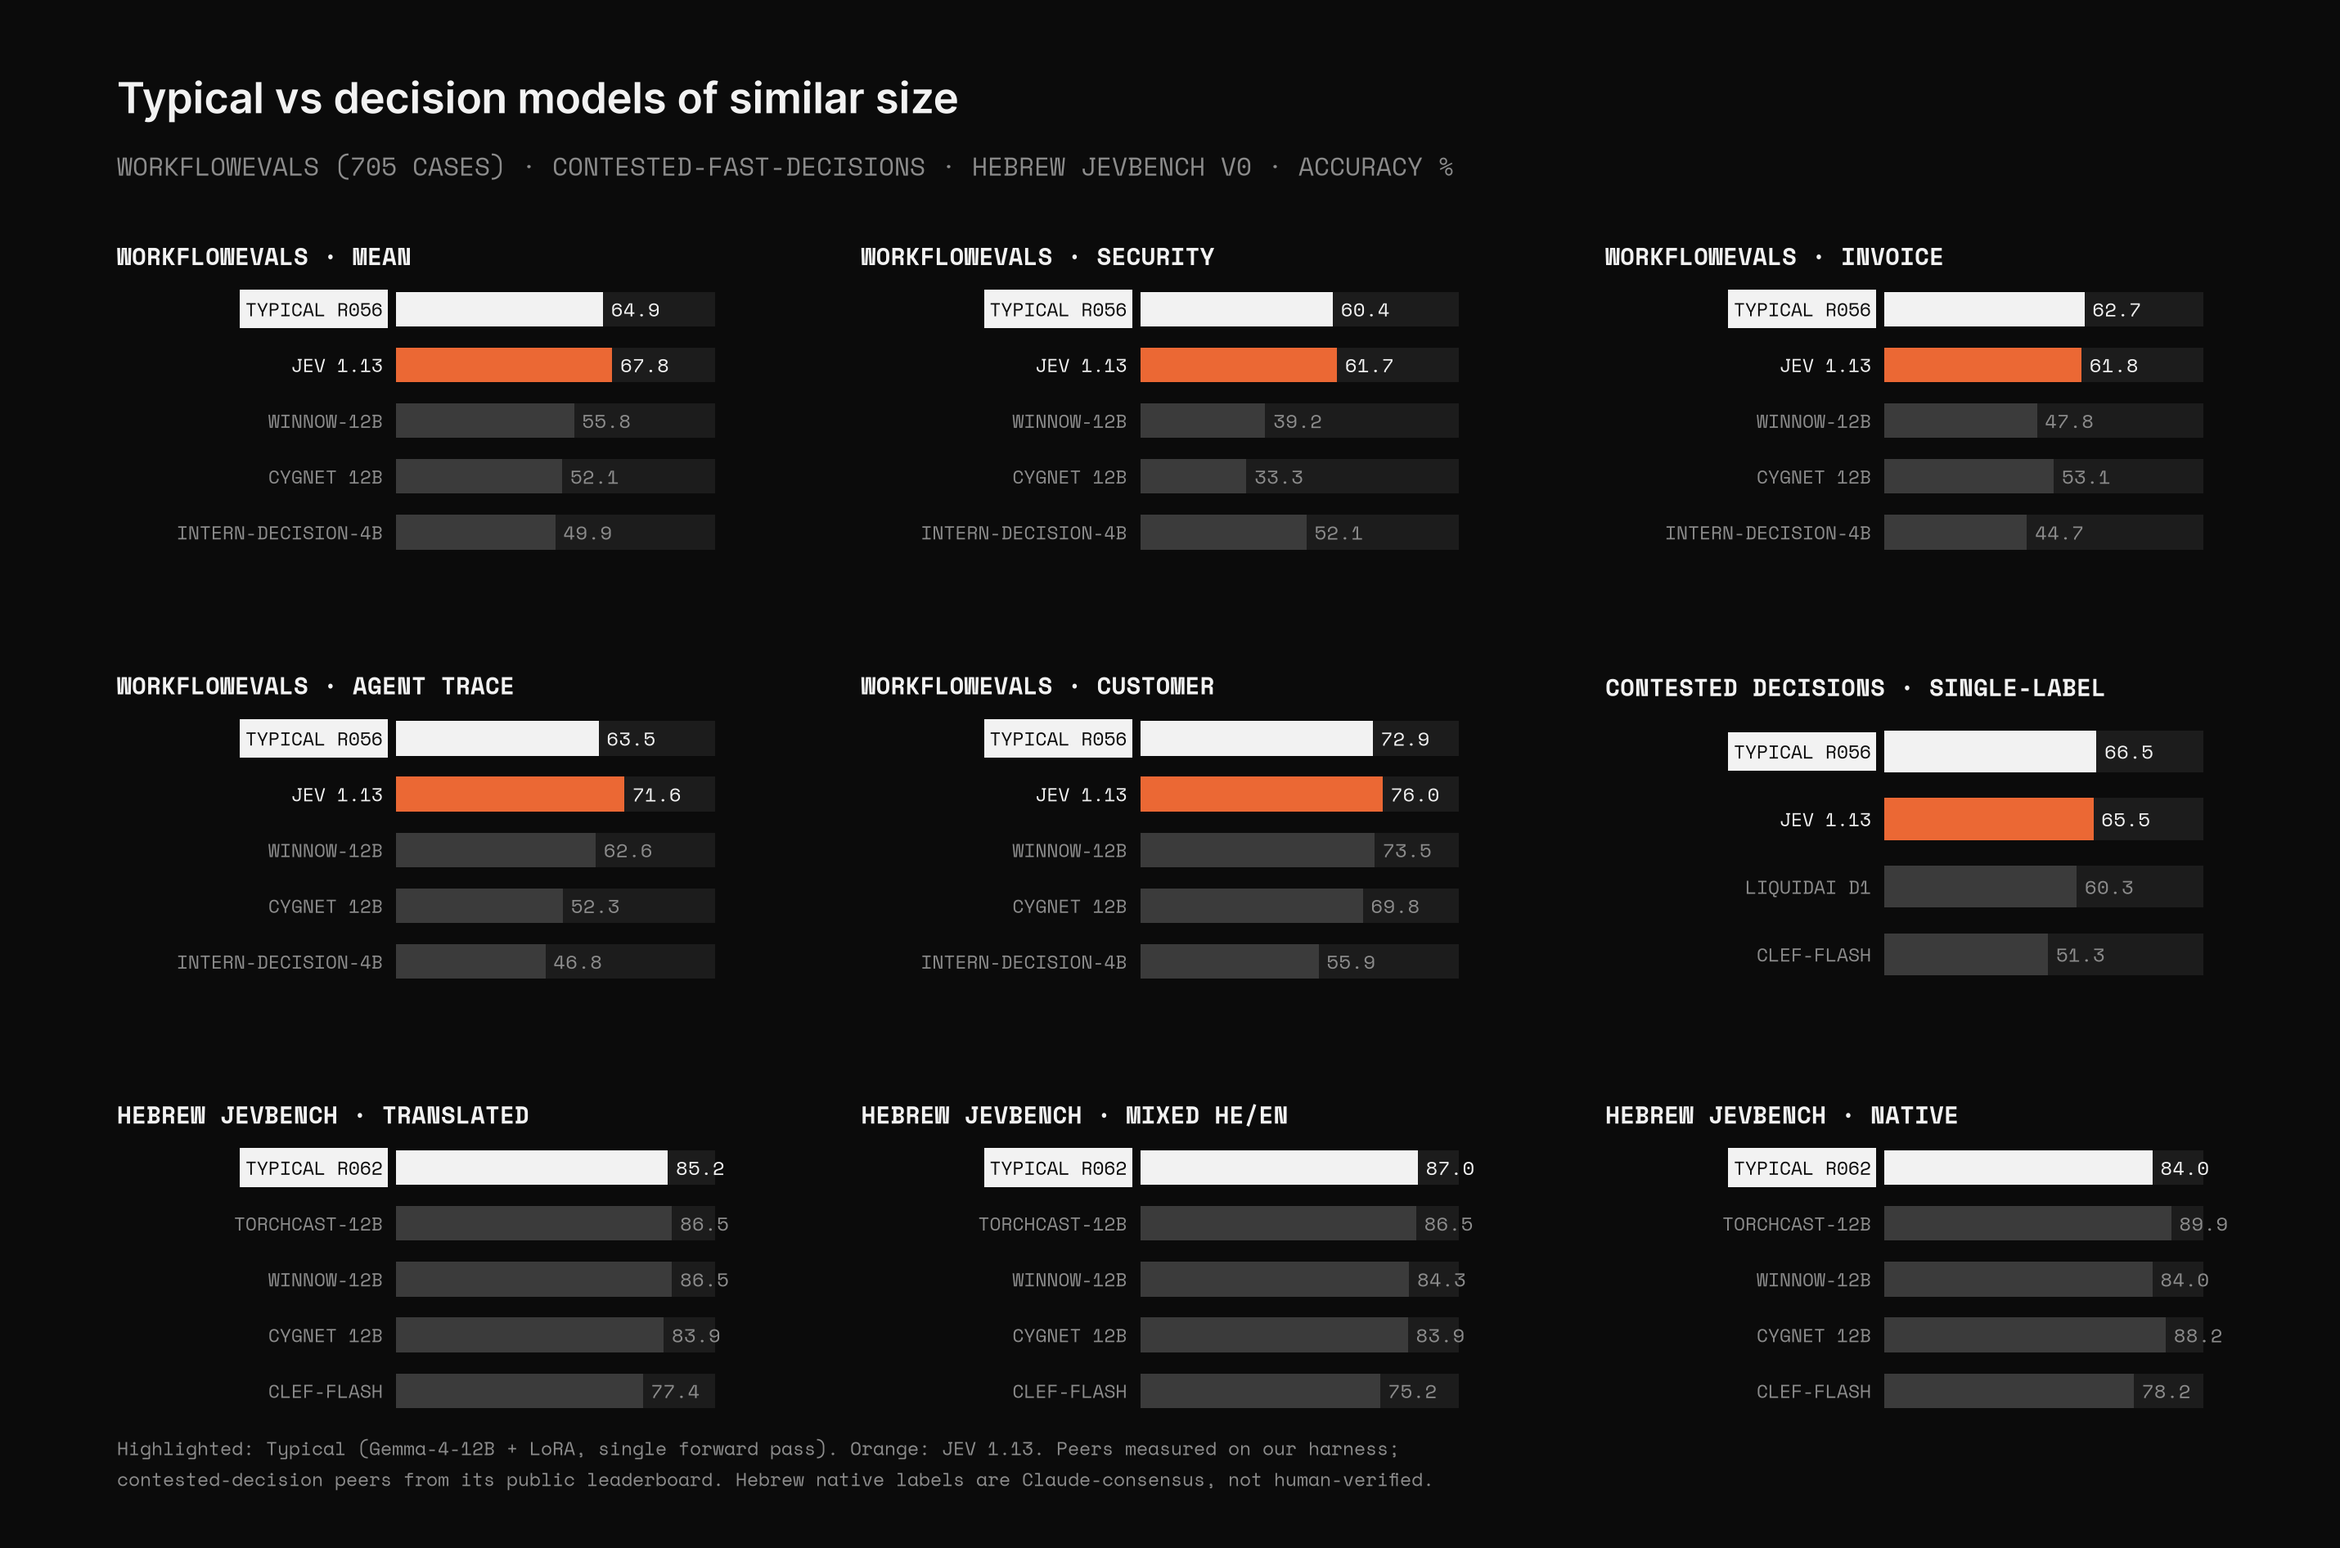
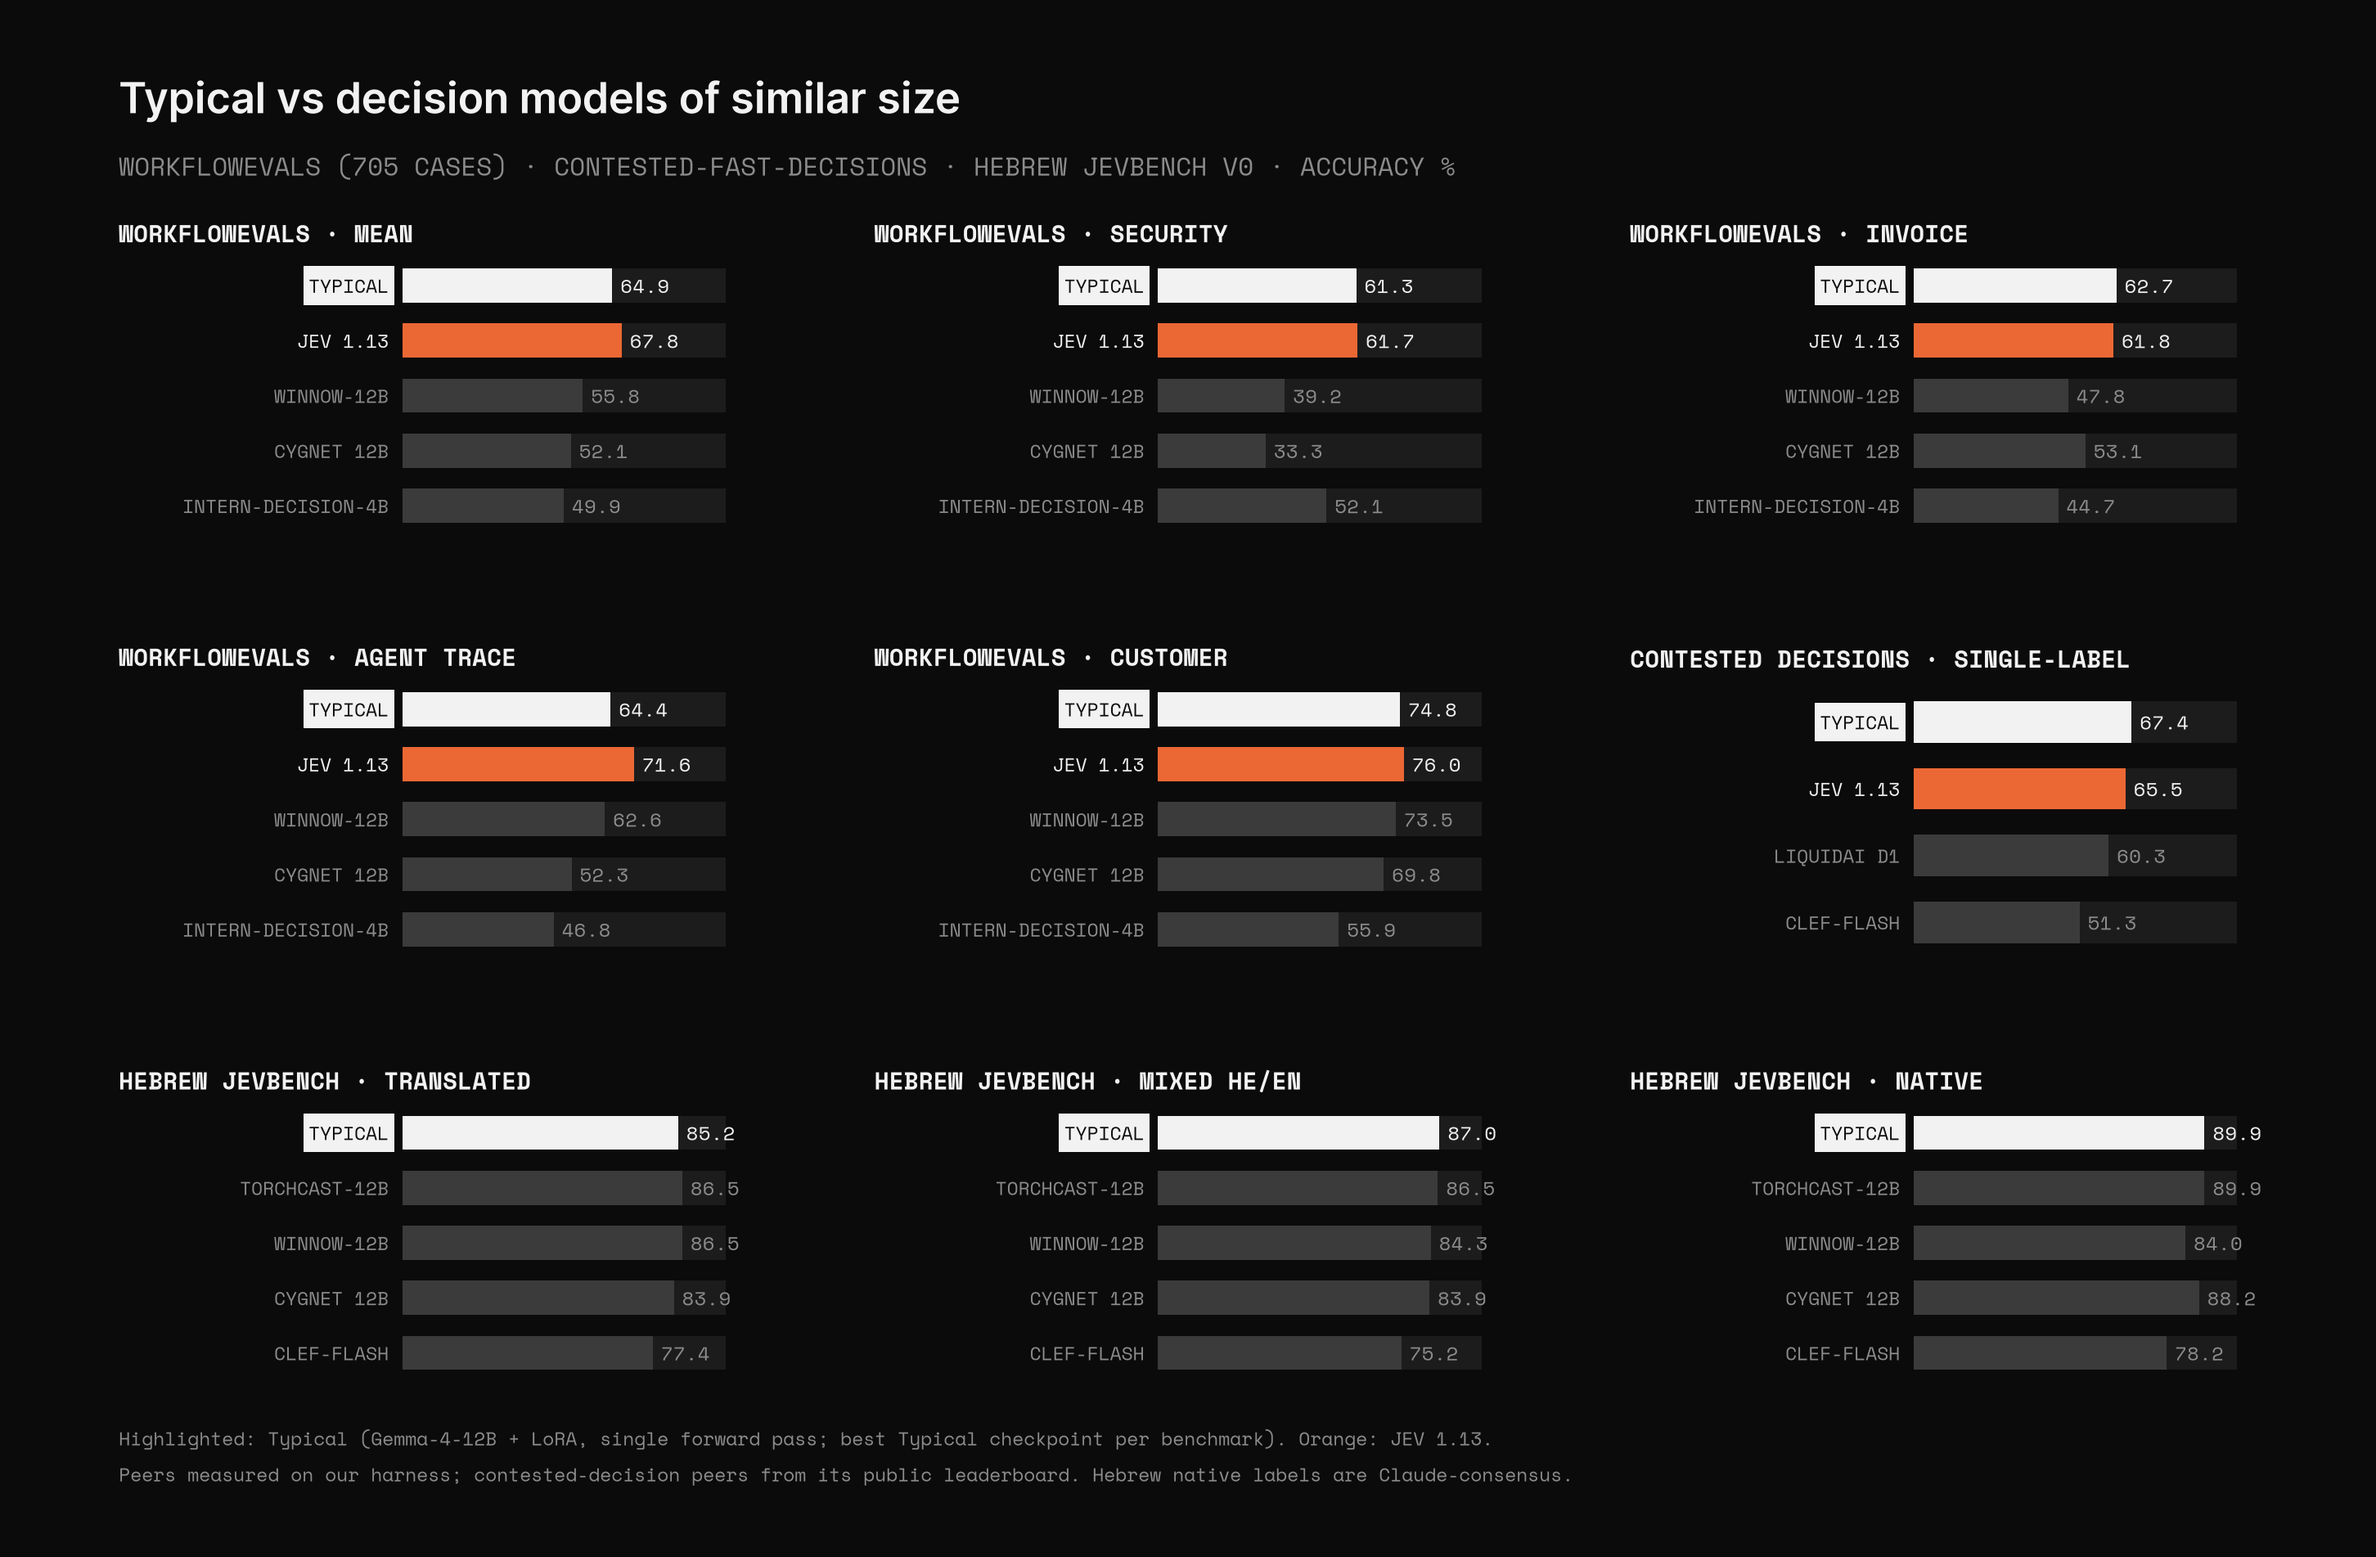
Showcase: one Typical bar (best checkpoint per benchmark); no-Jev and lead-only variants

diff --git a/scripts/showcase_plots.py b/scripts/showcase_plots.py
@@ -18,36 +18,35 @@ THEMES = {
                   ours="#2a78d6", ours_ink="#ffffff", jev="#eb6834", grid="#ececea", mono="Space Mono", sans="Inter"),
 }
 
-# (label, value in %, kind) — kind: ours | jev | peer.  Typical rows name the exact model.
+# (label, value in %, kind) — kind: ours | jev | peer. "TYPICAL" = best Typical checkpoint per benchmark:
+# WF mean/invoice R056, security/trace R060, customer + native R056 at 0.5 scale, contested R056 at 0.75, mixed R062.
 BOARD = [
-    ("WORKFLOWEVALS · MEAN", [("TYPICAL R056", 64.9, "ours"), ("JEV 1.13", 67.8, "jev"), ("WINNOW-12B", 55.8, "peer"),
+    ("WORKFLOWEVALS · MEAN", [("TYPICAL", 64.9, "ours"), ("JEV 1.13", 67.8, "jev"), ("WINNOW-12B", 55.8, "peer"),
                               ("CYGNET 12B", 52.1, "peer"), ("INTERN-DECISION-4B", 49.9, "peer")]),
-    ("WORKFLOWEVALS · SECURITY", [("TYPICAL R056", 60.4, "ours"), ("JEV 1.13", 61.7, "jev"), ("WINNOW-12B", 39.2, "peer"),
+    ("WORKFLOWEVALS · SECURITY", [("TYPICAL", 61.3, "ours"), ("JEV 1.13", 61.7, "jev"), ("WINNOW-12B", 39.2, "peer"),
                                   ("CYGNET 12B", 33.3, "peer"), ("INTERN-DECISION-4B", 52.1, "peer")]),
-    ("WORKFLOWEVALS · INVOICE", [("TYPICAL R056", 62.7, "ours"), ("JEV 1.13", 61.8, "jev"), ("WINNOW-12B", 47.8, "peer"),
+    ("WORKFLOWEVALS · INVOICE", [("TYPICAL", 62.7, "ours"), ("JEV 1.13", 61.8, "jev"), ("WINNOW-12B", 47.8, "peer"),
                                  ("CYGNET 12B", 53.1, "peer"), ("INTERN-DECISION-4B", 44.7, "peer")]),
-    ("WORKFLOWEVALS · AGENT TRACE", [("TYPICAL R056", 63.5, "ours"), ("JEV 1.13", 71.6, "jev"), ("WINNOW-12B", 62.6, "peer"),
+    ("WORKFLOWEVALS · AGENT TRACE", [("TYPICAL", 64.4, "ours"), ("JEV 1.13", 71.6, "jev"), ("WINNOW-12B", 62.6, "peer"),
                                      ("CYGNET 12B", 52.3, "peer"), ("INTERN-DECISION-4B", 46.8, "peer")]),
-    ("WORKFLOWEVALS · CUSTOMER", [("TYPICAL R056", 72.9, "ours"), ("JEV 1.13", 76.0, "jev"), ("WINNOW-12B", 73.5, "peer"),
+    ("WORKFLOWEVALS · CUSTOMER", [("TYPICAL", 74.8, "ours"), ("JEV 1.13", 76.0, "jev"), ("WINNOW-12B", 73.5, "peer"),
                                   ("CYGNET 12B", 69.8, "peer"), ("INTERN-DECISION-4B", 55.9, "peer")]),
-    ("CONTESTED DECISIONS · SINGLE-LABEL", [("TYPICAL R056", 66.5, "ours"), ("JEV 1.13", 65.5, "jev"),
+    ("CONTESTED DECISIONS · SINGLE-LABEL", [("TYPICAL", 67.4, "ours"), ("JEV 1.13", 65.5, "jev"),
                                             ("LIQUIDAI D1", 60.3, "peer"), ("CLEF-FLASH", 51.3, "peer")]),
-    ("HEBREW JEVBENCH · TRANSLATED", [("TYPICAL R062", 85.2, "ours"), ("TORCHCAST-12B", 86.5, "peer"),
+    ("HEBREW JEVBENCH · TRANSLATED", [("TYPICAL", 85.2, "ours"), ("TORCHCAST-12B", 86.5, "peer"),
                                       ("WINNOW-12B", 86.5, "peer"), ("CYGNET 12B", 83.9, "peer"), ("CLEF-FLASH", 77.4, "peer")]),
-    ("HEBREW JEVBENCH · MIXED HE/EN", [("TYPICAL R062", 87.0, "ours"), ("TORCHCAST-12B", 86.5, "peer"),
+    ("HEBREW JEVBENCH · MIXED HE/EN", [("TYPICAL", 87.0, "ours"), ("TORCHCAST-12B", 86.5, "peer"),
                                        ("WINNOW-12B", 84.3, "peer"), ("CYGNET 12B", 83.9, "peer"), ("CLEF-FLASH", 75.2, "peer")]),
-    ("HEBREW JEVBENCH · NATIVE", [("TYPICAL R062", 84.0, "ours"), ("TORCHCAST-12B", 89.9, "peer"),
+    ("HEBREW JEVBENCH · NATIVE", [("TYPICAL", 89.9, "ours"), ("TORCHCAST-12B", 89.9, "peer"),
                                   ("WINNOW-12B", 84.0, "peer"), ("CYGNET 12B", 88.2, "peer"), ("CLEF-FLASH", 78.2, "peer")]),
 ]
 
-PROGRESS = [("CYGNET 12B (FROZEN, ITS READOUT)", 52.1, "peer"), ("TYPICAL R044 (OLD RECIPE)", 52.8, "peer"),
-            ("GEMMA-12B + THINKING (TEACHER)", 61.2, "peer"), ("TYPICAL R056 (DISTILLED)", 64.9, "ours"),
-            ("TYPICAL R060 (+GPT TRACE LABELS)", 64.8, "ours"), ("JEV 1.13", 67.8, "jev")]
+PROGRESS = [("CYGNET 12B (FROZEN)", 52.1, "peer"), ("PREVIOUS RECIPE (R044)", 52.8, "peer"),
+            ("GEMMA-12B + THINKING (TEACHER)", 61.2, "peer"), ("TYPICAL", 64.9, "ours"), ("JEV 1.13", 67.8, "jev")]
 
 BLEND = [("BASE (SCALE 0)", 55.0, 202), ("SCALE 0.5", 60.1, 202), ("SCALE 0.75", 60.8, 199), ("R056 (SCALE 1)", 64.9, 196)]
 
-IMAGES = [("FROZEN BASE", 85, "peer"), ("TYPICAL R056", 114, "ours"), ("TYPICAL R060", 120, "ours"),
-          ("TYPICAL R062", 110, "ours")]
+IMAGES = [("FROZEN GEMMA-4-12B", 85, "peer"), ("TYPICAL", 120, "ours")]
 
 
 def page(t, w, h):
@@ -95,31 +94,44 @@ def bar_panel(ax, t, title, rows, vmax, fmt="{:.1f}", label_w=.42):
                 color=t["ink"] if kind != "peer" else t["ink2"])
 
 
-def board(t, name):
-    fig = page(t, 13, 8.6)
+def keep(rows, jev):
+    return [r for r in rows if jev or r[2] != "jev"]
+
+
+def leads(rows):
+    ours = max(v for _, v, k in rows if k == "ours")
+    return all(ours > v for _, v, k in rows if k == "peer")
+
+
+def board(t, name, jev=True, lead_only=False):
+    panels = [(title, keep(rows, jev)) for title, rows in BOARD if not lead_only or leads(rows)]
+    cols = 3
+    nrows = -(-len(panels) // cols)
+    fig = page(t, 4.4 * cols, 1.3 + 2.45 * nrows)
     header(fig, t, "Typical vs decision models of similar size",
            "WORKFLOWEVALS (705 CASES) · CONTESTED-FAST-DECISIONS · HEBREW JEVBENCH V0 · ACCURACY %")
-    gs = fig.add_gridspec(3, 3, left=.05, right=.97, top=.84, bottom=.08, wspace=.12, hspace=.35)
-    for k, (title, rows) in enumerate(BOARD):
-        bar_panel(fig.add_subplot(gs[k // 3, k % 3]), t, title, rows, vmax=100)
-    fig.text(.05, .06, "Highlighted: Typical (Gemma-4-12B + LoRA, single forward pass). Orange: JEV 1.13. Peers measured on our harness;",
-             color=t["ink2"], fontsize=7.5, family=t["mono"])
-    fig.text(.05, .04, "contested-decision peers from its public leaderboard. Hebrew native labels are Claude-consensus, not human-verified.",
-             color=t["ink2"], fontsize=7.5, family=t["mono"])
+    h = fig.get_figheight()
+    gs = fig.add_gridspec(nrows, cols, left=.05, right=.97, top=1 - 1.25 / h, bottom=.95 / h, wspace=.12, hspace=.35)
+    for k, (title, rows) in enumerate(panels):
+        bar_panel(fig.add_subplot(gs[k // cols, k % cols]), t, title, rows, vmax=100)
+    first = "Highlighted: Typical (Gemma-4-12B + LoRA, single forward pass; best Typical checkpoint per benchmark)."
+    fig.text(.05, .62 / h, first + (" Orange: JEV 1.13." if jev else ""), color=t["ink2"], fontsize=7.5, family=t["mono"])
+    fig.text(.05, .42 / h, "Peers measured on our harness; contested-decision peers from its public leaderboard. "
+             "Hebrew native labels are Claude-consensus.", color=t["ink2"], fontsize=7.5, family=t["mono"])
     fig.savefig(OUT / f"{name}_board.png", dpi=220, facecolor=t["page"])
     plt.close(fig)
 
 
-def progress(t, name):
+def progress(t, name, jev=True):
     fig = page(t, 10, 4.2)
     header(fig, t, "Thinking-teacher distillation: WorkflowEvals .53 → .65",
            "WORKFLOWEVALS MEAN · 4 WORKFLOWS · 705 CASES · ACCURACY %")
-    bar_panel(body(fig), t, "", PROGRESS, vmax=80, label_w=.36)
+    bar_panel(body(fig), t, "", keep(PROGRESS, jev), vmax=80, label_w=.36)
     fig.savefig(OUT / f"{name}_progress.png", dpi=220, facecolor=t["page"])
     plt.close(fig)
 
 
-def tradeoff(t, name):
+def tradeoff(t, name, jev=True):
     fig = page(t, 9, 5.6)
     header(fig, t, "Scaling the adapter trades workflow skill for general skill",
            "SCALE = FRACTION OF THE R056 LORA DELTA APPLIED")
@@ -136,12 +148,10 @@ def tradeoff(t, name):
     ax.scatter(xs, ys, s=55, color=t["ours"], zorder=3, edgecolor=t["card"] or t["page"], linewidth=1.5)
     for lab, x, y in BLEND:
         ax.annotate(lab, (x, y), textcoords="offset points", xytext=(7, 7), fontsize=8.5, family=t["mono"], color=t["ink"])
-    ax.scatter(64.8, 198, s=55, marker="s", color=t["ours"], zorder=3)
-    ax.annotate("R060 (KL ANCHORS)", (64.8, 198), textcoords="offset points", xytext=(8, -13), fontsize=8.5,
-                family=t["mono"], color=t["ink"])
-    ax.scatter(67.8, 200, s=80, marker="D", color=t["jev"], zorder=3)
-    ax.annotate("JEV 1.13", (67.8, 200), textcoords="offset points", xytext=(-20, 9), fontsize=8.5,
-                family=t["mono"], color=t["ink"])
+    if jev:
+        ax.scatter(67.8, 200, s=80, marker="D", color=t["jev"], zorder=3)
+        ax.annotate("JEV 1.13", (67.8, 200), textcoords="offset points", xytext=(-20, 9), fontsize=8.5,
+                    family=t["mono"], color=t["ink"])
     ax.set_xlim(53, 70)
     ax.set_ylim(194, 205)
     ax.set_xlabel("WORKFLOWEVALS MEAN %", color=t["ink2"], fontsize=8.5, family=t["mono"])
@@ -150,7 +160,7 @@ def tradeoff(t, name):
     plt.close(fig)
 
 
-def images(t, name):
+def images(t, name, jev=True):
     fig = page(t, 9, 3.3)
     header(fig, t, "Image decisions improved with training",
            "SCIENCEQA REAL-IMAGE ACCURACY · 128-ITEM RETENTION SUITE · ALL RETENTION GATES PASS")
@@ -164,6 +174,9 @@ if __name__ == "__main__":
     for old in OUT.glob("*.png"):
         old.unlink()
     for tname, t in THEMES.items():
-        for f in (board, progress, tradeoff, images):
+        for f in (progress, tradeoff, images):
             f(t, tname)
+            f(t, f"{tname}_nojev", jev=False)
+        board(t, tname)
+        board(t, f"{tname}_nojev_leads", jev=False, lead_only=True)
     print("wrote", sorted(p.name for p in OUT.glob("*.png")))
